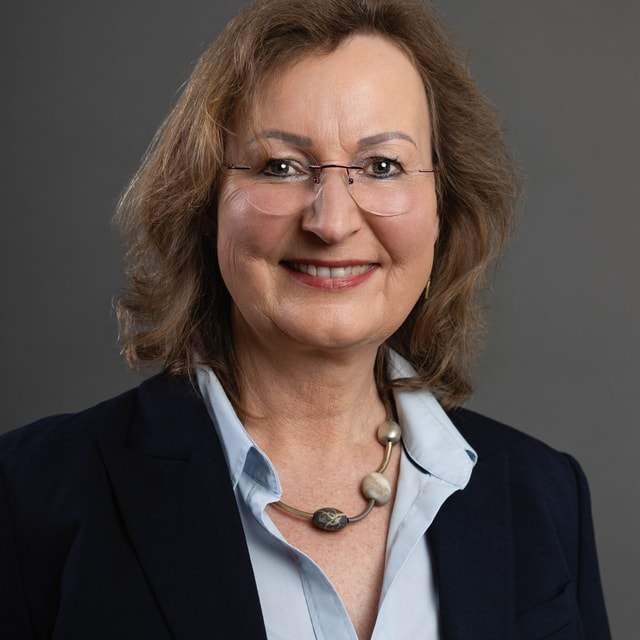
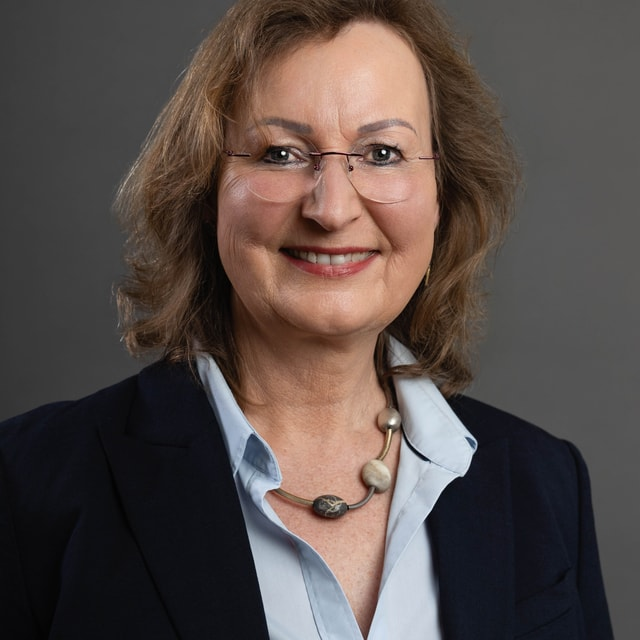
style: Update team member images across all resolutions with new high-resolution files, streamline image source mapping in the script, and remove outdated vertical positioning adjustments in CSS for improved visual consistency.

diff --git a/scripts/normalize_team_images_640.js b/scripts/normalize_team_images_640.js
@@ -12,60 +12,25 @@ const fs = require("fs");
 
 const ROOT = path.resolve(__dirname, "..");
 const TEAM_DIR = path.join(ROOT, "assets", "team");
-const ORIGINAL_DIR = path.join(TEAM_DIR, "Original");
 const SIZES = [320, 640, 1280];
 
 /**
- * Für einige Original-Fotos nutzen wir bewusst die hochauflösenden Dateien
- * aus `assets/team/Original`, damit das Ergebnis nicht verpixelt ist und
- * die Köpfe etwas weiter unten im Ausschnitt liegen.
- *
- * verticalBiasPercent:
- *   - Negative Werte verschieben den quadratischen Ausschnitt im Quellbild
- *     nach oben (damit im Quadrat mehr Raum über dem Kopf entsteht und der
- *     Kopf optisch weiter unten sitzt).
+ * Map outputs, für die es explizit neue, hochauflösende Originale
+ * im Unterordner assets/team/Original gibt.
+ * Diese Dateien sollen als Quelle dienen, damit die Köpfe nicht
+ * abgeschnitten und die Bilder nicht verpixelt wirken.
  */
-const ORIGINAL_OVERRIDES = {
-  "till-reichert.jpg": {
-    src: path.join(ORIGINAL_DIR, "Till Reichert.jpg"),
-    verticalBiasPercent: -0.08,
-  },
-  "olaf_werner-square.jpg": {
-    src: path.join(ORIGINAL_DIR, "Olaf Werner.jpg"),
-    verticalBiasPercent: -0.08,
-  },
-  "Carmen-Werner-Team_500x500.jpg": {
-    src: path.join(ORIGINAL_DIR, "Carmen Werner.jpg"),
-    verticalBiasPercent: -0.08,
-  },
-  "Team-Dr.-Bettina-Hailer-500x500-1.jpg": {
-    src: path.join(ORIGINAL_DIR, "Bettina Hailer.jpg"),
-    verticalBiasPercent: -0.08,
-  },
-  "Gerold-Pohl-Team-500-x-500.jpg": {
-    src: path.join(ORIGINAL_DIR, "Gerold Pohl.jpg"),
-    verticalBiasPercent: -0.08,
-  },
-  "Profilbild_Heike_Neidhart_Team_500x500.jpg": {
-    src: path.join(ORIGINAL_DIR, "Heike Neidhart.jpg"),
-    verticalBiasPercent: -0.08,
-  },
-  "Kirsten_Schmiegelt_3-1.jpg": {
-    src: path.join(ORIGINAL_DIR, "Kirsten Schmiegelt.jpg"),
-    verticalBiasPercent: -0.08,
-  },
-  "Team-Maik-Riess-500x500-1.jpg": {
-    src: path.join(ORIGINAL_DIR, "Maik RIess.jpg"),
-    verticalBiasPercent: -0.08,
-  },
-  "Team-Marcus-Schmidt-6-23.jpg": {
-    src: path.join(ORIGINAL_DIR, "Marcus Schmidt.jpg"),
-    verticalBiasPercent: -0.08,
-  },
-  "Cludius-Andreas-Team-500x500-1.jpg": {
-    src: path.join(ORIGINAL_DIR, "Andreas Cludius.jpg"),
-    verticalBiasPercent: -0.08,
-  },
+const ORIGINAL_SRC_MAP = {
+  "till-reichert.jpg": "Original/Till Reichert.jpg",
+  "olaf_werner-square.jpg": "Original/Olaf Werner.jpg",
+  "Carmen-Werner-Team_500x500.jpg": "Original/Carmen Werner.jpg",
+  "Profilbild_Heike_Neidhart_Team_500x500.jpg": "Original/Heike Neidhart.jpg",
+  "Gerold-Pohl-Team-500-x-500.jpg": "Original/Gerold Pohl.jpg",
+  "Kirsten_Schmiegelt_3-1.jpg": "Original/Kirsten Schmiegelt.jpg",
+  "Team-Dr.-Bettina-Hailer-500x500-1.jpg": "Original/Bettina Hailer.jpg",
+  "Team-Maik-Riess-500x500-1.jpg": "Original/Maik RIess.jpg",
+  "Team-Marcus-Schmidt-6-23.jpg": "Original/Marcus Schmidt.jpg",
+  "Cludius-Andreas-Team-500x500-1.jpg": "Original/Andreas Cludius.jpg",
 };
 
 const USED_IMAGES = [
@@ -101,8 +66,10 @@ async function main() {
   }
 
   for (const { src, out } of USED_IMAGES) {
-    const override = ORIGINAL_OVERRIDES[out];
-    const srcPath = override?.src || path.join(TEAM_DIR, src);
+    // Falls es für dieses Zielbild eine explizite Originaldatei im Ordner
+    // assets/team/Original gibt, diese bevorzugt als Quelle verwenden.
+    const mappedSrc = ORIGINAL_SRC_MAP[out] || src;
+    const srcPath = path.join(TEAM_DIR, mappedSrc);
     if (!fs.existsSync(srcPath)) {
       console.log("Skip (not found):", src);
       continue;
@@ -118,12 +85,12 @@ async function main() {
         const left = Math.floor((width - cropSize) / 2);
         let top = Math.floor((height - cropSize) / 2);
 
-        // Vertikalen Ausschnitt für bestimmte Originale leicht nach oben verschieben,
-        // damit der Kopf im Quadrat etwas weiter unten sitzt.
-        if (override && override.verticalBiasPercent) {
-          const biasPx = Math.round(override.verticalBiasPercent * cropSize);
-          const maxTop = height - cropSize;
-          top = Math.max(0, Math.min(maxTop, top + biasPx));
+        // Für die neuen Originale: das Quadrat leicht nach oben verschieben,
+        // damit der Kopf im späteren Ausschnitt etwas weiter nach unten rückt
+        // und oben nicht abgeschnitten wirkt.
+        if (ORIGINAL_SRC_MAP[out] && height > width) {
+          const bias = Math.round(cropSize * 0.06); // ca. 6 % nach oben schieben
+          top = Math.max(0, top - bias);
         }
         let pipeline = sharp(srcPath)
           .extract({ left, top, width: cropSize, height: cropSize })

diff --git a/styles/index.css b/styles/index.css
@@ -2793,64 +2793,8 @@ footer::before {
     transform: scale(1.20) translateY(3%);
 }
 
-/* Reale Fotos: nur leichte vertikale Korrektur der Kopfposition,
-   Malte (2) bleibt unverändert als Referenz. */
-
-/* 1: Till – Kopf etwas nach unten */
-.team-member-card[data-member="1"] .member-photo img {
-    transform-origin: center top;
-    transform: translateY(4%);
-}
-
-/* 4: Olaf – Kopf minimal nach oben */
-.team-member-card[data-member="4"] .member-photo img {
-    transform-origin: center top;
-    transform: translateY(-2%);
-}
-
-/* 6: Carmen – Kopf nach oben (mehr Abstand unten) */
-.team-member-card[data-member="6"] .member-photo img {
-    transform-origin: center top;
-    transform: translateY(-4%);
-}
-
-/* 7: Bettina Brendel – Kopf nach oben */
-.team-member-card[data-member="7"] .member-photo img {
-    transform-origin: center top;
-    transform: translateY(-4%);
-}
-
-/* 8: Bettina Hailer – leicht nach oben */
-.team-member-card[data-member="8"] .member-photo img {
-    transform-origin: center top;
-    transform: translateY(-2%);
-}
-
-/* 10: Gerold – Kopf etwas nach unten */
-.team-member-card[data-member="10"] .member-photo img {
-    transform-origin: center top;
-    transform: translateY(4%);
-}
-
-/* 11: Heike Neidhart – Kopf etwas nach unten */
-.team-member-card[data-member="11"] .member-photo img {
-    transform-origin: center top;
-    transform: translateY(4%);
-}
-
-/* 12: Heike Stalling – fast optimal, nur minimal nach unten */
-.team-member-card[data-member="12"] .member-photo img {
-    transform-origin: center top;
-    transform: translateY(2%);
-}
-
-/* 15: Kirsten – leicht nach unten */
-.team-member-card[data-member="15"] .member-photo img {
-    transform-origin: center top;
-    transform: translateY(3%);
-}
-
-/* 16, 17: Maik & Marcus – Referenznah, keine Regel nötig */
+/* Reale Fotos: keine transform-Regel → nutzen den Originalausschnitt,
+   damit oben nichts abgeschnitten wird (Malte 2 als Referenz). */
 
 /* ---- Modal: dezente Regeln nur dort, wo nötig ---- */
 
@@ -3234,33 +3178,8 @@ div[class*="syntra-widget"].mobile-menu-active {
     transition: all 0.5s cubic-bezier(0.4, 0, 0.2, 1);
 }
 
-/* Original-Fotos im Modal: komplette Bildkomposition anzeigen */
-.team-modal[data-member="1"] .modal-photo img,
-.team-modal[data-member="2"] .modal-photo img,
-.team-modal[data-member="4"] .modal-photo img,
-.team-modal[data-member="6"] .modal-photo img,
-.team-modal[data-member="7"] .modal-photo img,
-.team-modal[data-member="8"] .modal-photo img,
-.team-modal[data-member="10"] .modal-photo img,
-.team-modal[data-member="11"] .modal-photo img,
-.team-modal[data-member="12"] .modal-photo img,
-.team-modal[data-member="15"] .modal-photo img,
-.team-modal[data-member="16"] .modal-photo img,
-.team-modal[data-member="17"] .modal-photo img,
-.team-modal[data-member="1"] .modal-avatar img,
-.team-modal[data-member="2"] .modal-avatar img,
-.team-modal[data-member="4"] .modal-avatar img,
-.team-modal[data-member="6"] .modal-avatar img,
-.team-modal[data-member="7"] .modal-avatar img,
-.team-modal[data-member="8"] .modal-avatar img,
-.team-modal[data-member="10"] .modal-avatar img,
-.team-modal[data-member="11"] .modal-avatar img,
-.team-modal[data-member="12"] .modal-avatar img,
-.team-modal[data-member="15"] .modal-avatar img,
-.team-modal[data-member="16"] .modal-avatar img,
-.team-modal[data-member="17"] .modal-avatar img {
-    object-fit: contain;
-}
+/* (Reale Fotos nutzen wieder den quadratischen Ausschnitt aus den neuen
+   Originalen; kein spezielles object-fit mehr nötig.) */
 
 /* Per-person modal head position via transform (match grid) */
 
